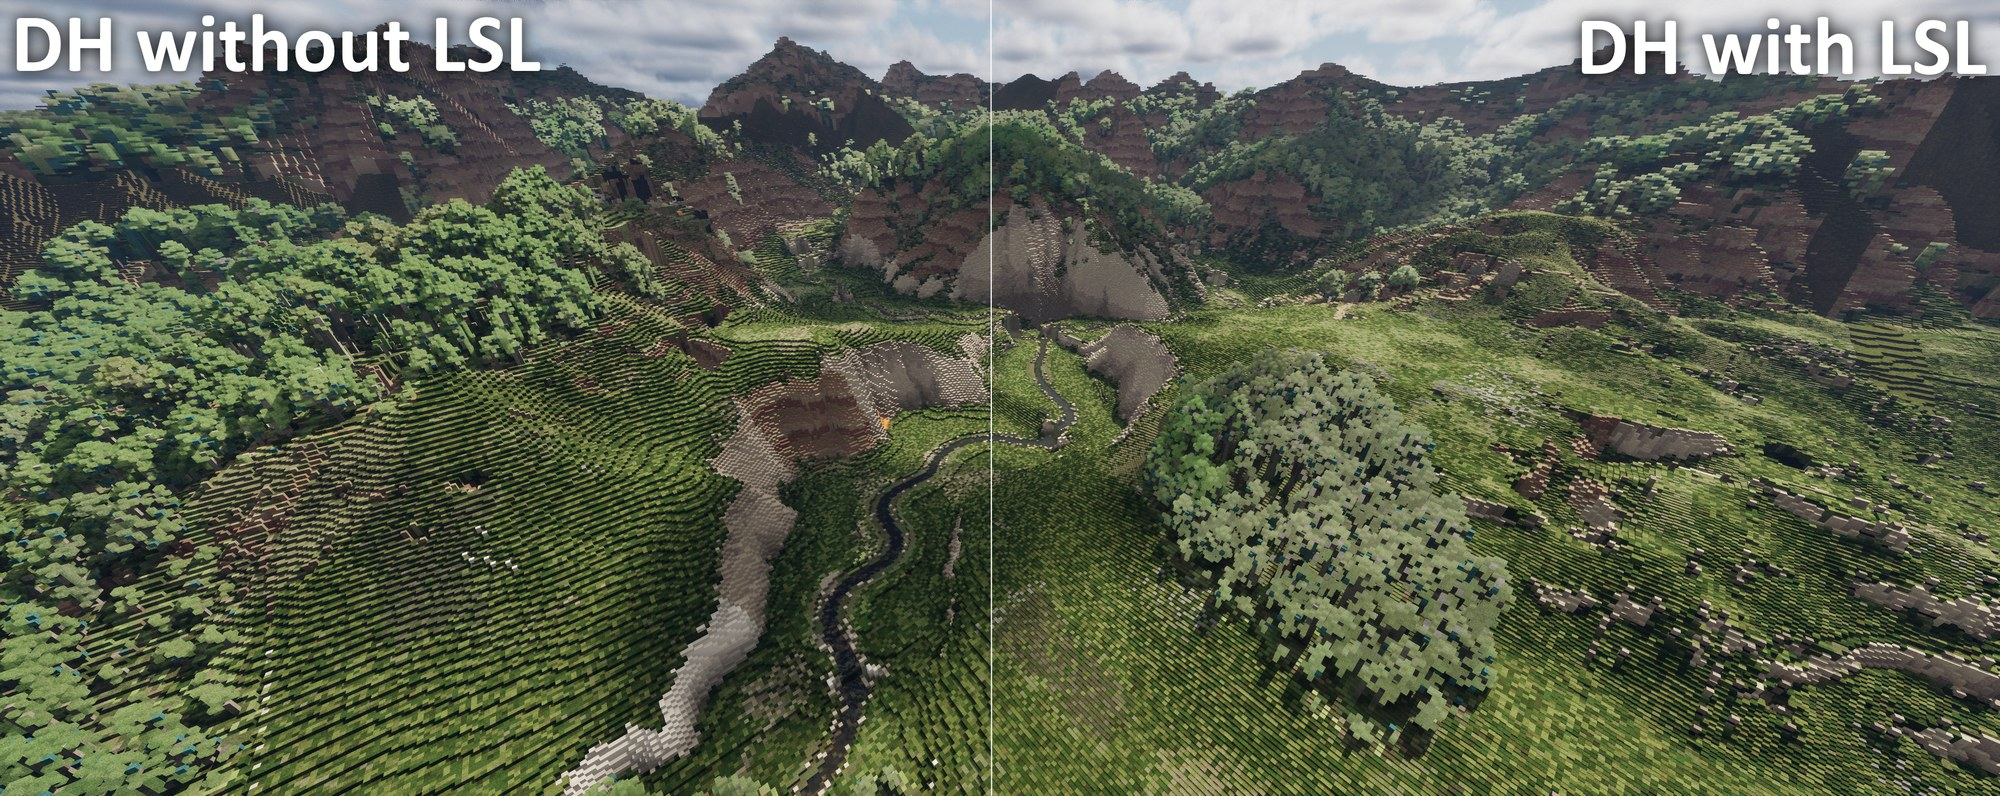
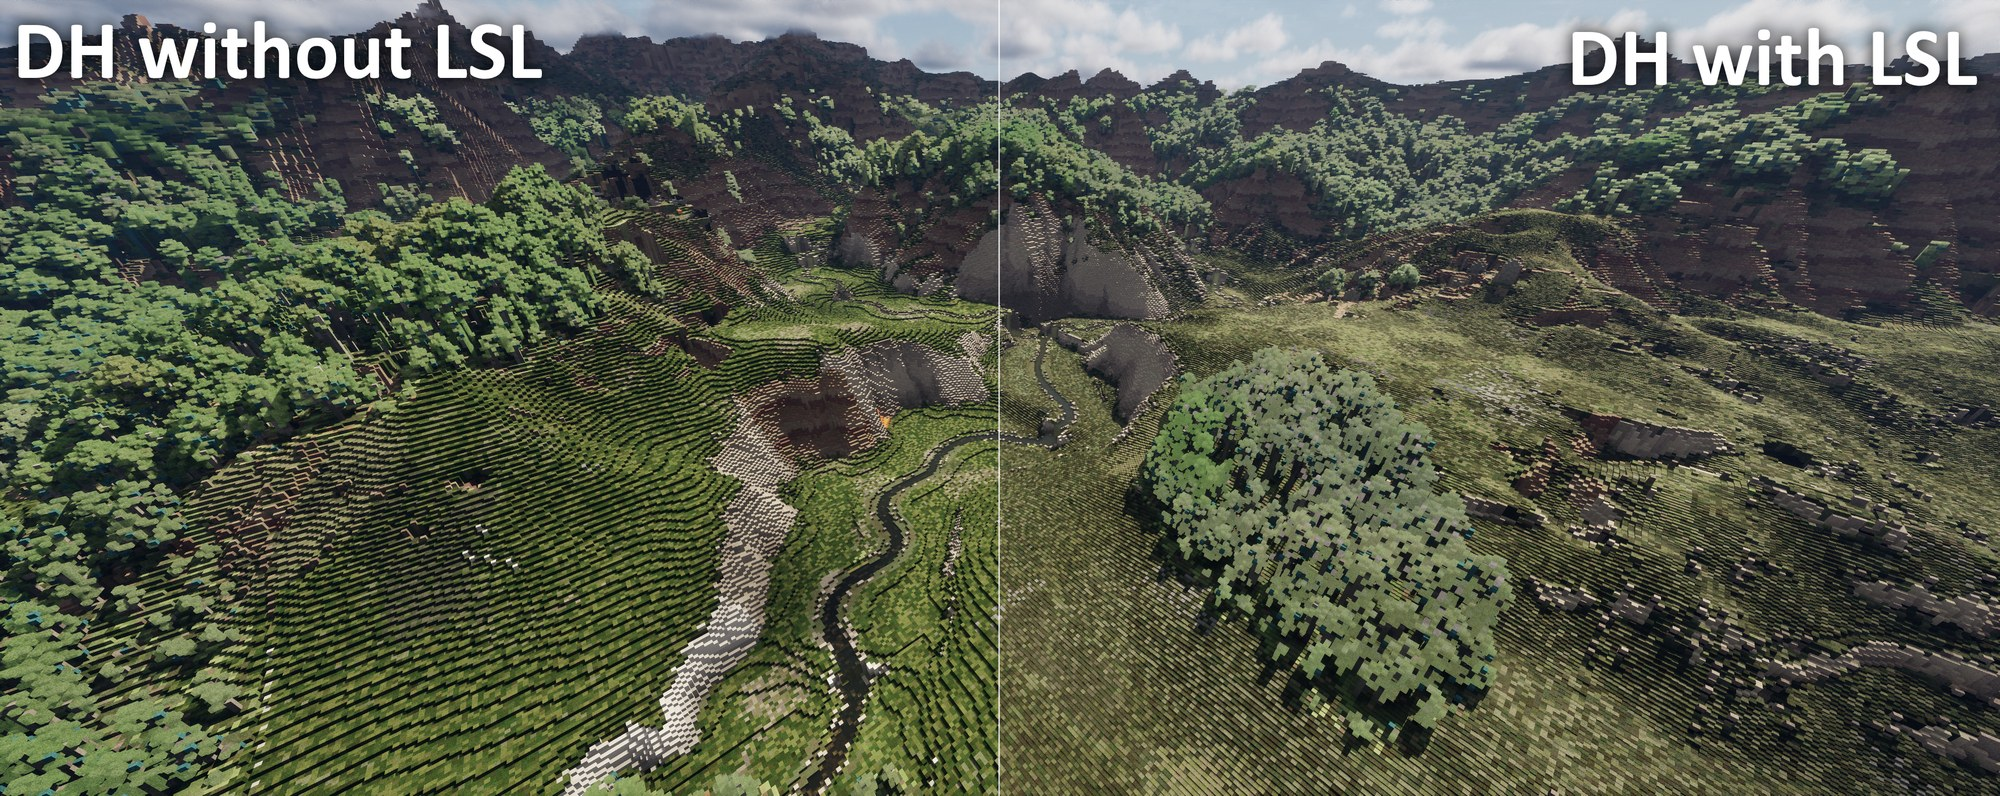
DH: neutral tinted textures for plant colours (0.1.39-poc)
Grass and plants in Distant Horizons LODs were much greener than up
close, about as green as Voxy before LSL. DH colours a tinted block as
the average of its texture times the biome tint. Tinted textures are
meant to be grey, with the tint giving the colour. Conquest Reforged's
plant textures are coloured fallbacks for the near-grey Continuity
tiles it draws up close, so DH coloured them twice. Voxy had the same
problem before voxy_ctm.

New option dh_neutral_tints (default on): whenever DH has tinted a
block, its texture's average is turned grey, brightness kept, and DH's
tint is applied again. Small fescue's base #61713B becomes #6B6B6B,
close to CR's tile #646759. Textures that are already grey (vanilla
grass and leaves) don't change. DH paints a plant's colour onto the
block under it through the same colour lookup, so meadow tops follow.

This goes through DH's public API only (DhApiBlockColorOverrideEvent,
base and tint colours since API 7.1), so it works on every MC version,
with or without exact layers, and needs no Continuity code. A DH
without those getters skips it with a log line.

- DistantHorizonsCompat: the block-wrapper event now also runs without
  exact heights. It sets the partial-layer opacity (exact mode) and
  opts non-air blocks into colour overrides (dh_neutral_tints). New
  colour event handler.
- DhColors (new): luminance grey in linear light (as DH averages
  textures) and DH's channel-wise tint multiply.
[…]

diff --git a/src/main/java/io/arona74/lsl/dh/DistantHorizonsCompat.java b/src/main/java/io/arona74/lsl/dh/DistantHorizonsCompat.java
@@ -4,6 +4,7 @@ import com.seibel.distanthorizons.api.DhApi;
 import com.seibel.distanthorizons.api.interfaces.block.IDhApiBlockStateWrapper;
 import com.seibel.distanthorizons.api.interfaces.world.IDhApiLevelWrapper;
 import com.seibel.distanthorizons.api.methods.events.DhApiEventRegister;
+import com.seibel.distanthorizons.api.methods.events.abstractEvents.DhApiBlockColorOverrideEvent;
 import com.seibel.distanthorizons.api.methods.events.abstractEvents.DhApiBlockStateWrapperCreatedEvent;
 import com.seibel.distanthorizons.api.methods.events.abstractEvents.DhApiChunkProcessingEvent;
 import com.seibel.distanthorizons.api.methods.events.sharedParameterObjects.DhApiEventParam;
@@ -47,19 +48,22 @@ public final class DistantHorizonsCompat {
     private static final Map<IDhApiLevelWrapper, Map<BlockState, IDhApiBlockStateWrapper>> WRAPPERS = new ConcurrentHashMap<>();
 
     public static void register() {
-        if (DhExactFlags.active) {
+        boolean exact = DhExactFlags.active;
+        boolean tints = registerNeutralTints();
+        if (exact || tints) {
             report(DhApiEventRegister.on(DhApiBlockStateWrapperCreatedEvent.class, new DhApiBlockStateWrapperCreatedEvent() {
                 @Override
                 public void blockStateWrapperCreated(DhApiEventParam<EventParam> event) {
                     DhStats.WRAPPERS.count();
-                    if (event.value.getBlockStateWrapper().getWrappedMcObject() instanceof BlockState state
-                            && DhLayers.partialEighths(state) > 0 && !DhLayers.isWaterlogged(state)) {
+                    if (!(event.value.getBlockStateWrapper().getWrappedMcObject() instanceof BlockState state)) return;
+                    if (exact && DhLayers.partialEighths(state) > 0 && !DhLayers.isWaterlogged(state)) {
                         event.value.setOpacity(PARTIAL_LAYER_OPACITY);
                     }
+                    if (tints && !state.isAir()) event.value.setAllowApiColorOverride(true);
                 }
-            }), "exact layer heights");
-            return;
+            }), exact ? "exact layer heights" : "block wrappers");
         }
+        if (exact) return;
         report(DhApiEventRegister.on(DhApiChunkProcessingEvent.class, new DhApiChunkProcessingEvent() {
             @Override
             public void blockOrBiomeChangedDuringChunkProcessing(DhApiEventParam<EventParam> event) {
@@ -68,6 +72,48 @@ public final class DistantHorizonsCompat {
         }), "layer rounding");
         // The stand-ins depend on dh_layer_rounding_threshold, which the config screen can change.
         LslConfig.onChange(STAND_IN::clear);
+    }
+
+    /**
+     * dh_neutral_tints: DH colours a tinted block as (average of its texture) x tint. A tinted
+     * texture is meant to be grey, the tint giving the colour; Conquest Reforged's plant textures
+     * are coloured fallbacks for the near-grey connected textures it really draws, so DH coloured
+     * them twice and distant meadows came out far greener than up close. Here the texture's average
+     * is turned grey, brightness kept, before the tint is applied again. Blocks DH could not tint,
+     * and grey textures (vanilla grass and leaves), come out as they were.
+     *
+     * @return whether the colour event is registered (DH API 7.1+, option on)
+     */
+    private static boolean registerNeutralTints() {
+        if (!LslConfig.dhNeutralTints) return false;
+        try {
+            DhApiBlockColorOverrideEvent.EventParam.class.getMethod("getTintColorAsInt");
+            DhApiBlockColorOverrideEvent.EventParam.class.getMethod("getBaseColorAsInt");
+        } catch (NoSuchMethodException | LinkageError e) {
+            Lsl.LOGGER.info("[LSL/DH] this Distant Horizons cannot override block colours: dh_neutral_tints skipped");
+            return false;
+        }
+        try {
+            DhApiResult<Void> result = DhApiEventRegister.on(DhApiBlockColorOverrideEvent.class, new DhApiBlockColorOverrideEvent() {
+                @Override
+                public void onBlockColorOverridden(DhApiEventParam<EventParam> event) {
+                    EventParam colour = event.value;
+                    int tint = colour.getTintColorAsInt();
+                    if (tint == -1) return; // not tinted
+                    int base = colour.getBaseColorAsInt();
+                    int grey = DhColors.grey(base);
+                    if (grey == base) return;
+                    int tinted = DhColors.multiply(grey, tint);
+                    colour.setColor(colour.getAlpha(), tinted >> 16 & 0xFF, tinted >> 8 & 0xFF, tinted & 0xFF);
+                }
+            });
+            report(result, "neutral tinted textures");
+            return result.success;
+        } catch (LinkageError e) {
+            // A DH whose API predates the base and tint colours (7.1).
+            Lsl.LOGGER.info("[LSL/DH] this Distant Horizons cannot override block colours: dh_neutral_tints skipped");
+            return false;
+        }
     }
 
     private static void report(DhApiResult<Void> result, String what) {

diff --git a/src/main/java/io/arona74/lsl/dh/DhColors.java b/src/main/java/io/arona74/lsl/dh/DhColors.java
@@ -1,0 +1,39 @@
+package io.arona74.lsl.dh;
+
+/**
+ * Colour arithmetic for dh_neutral_tints, on ARGB ints. Greys are taken the way DH averages
+ * textures: in linear light, back to sRGB.
+ */
+public final class DhColors {
+    private DhColors() {}
+
+    private static final float[] TO_LINEAR = new float[256];
+
+    static {
+        for (int i = 0; i < 256; i++) {
+            double c = i / 255.0;
+            TO_LINEAR[i] = (float) (c <= 0.04045 ? c / 12.92 : Math.pow((c + 0.055) / 1.055, 2.4));
+        }
+    }
+
+    /** The same colour as a grey of equal brightness (relative luminance), alpha kept. */
+    public static int grey(int argb) {
+        float y = 0.2126f * TO_LINEAR[argb >> 16 & 0xFF] + 0.7152f * TO_LINEAR[argb >> 8 & 0xFF]
+            + 0.0722f * TO_LINEAR[argb & 0xFF];
+        int g = toSrgb(y);
+        return argb & 0xFF000000 | g << 16 | g << 8 | g;
+    }
+
+    /** Channel-wise product of a colour and a tint, as DH tints (alpha from {@code argb}). */
+    public static int multiply(int argb, int tint) {
+        int r = (argb >> 16 & 0xFF) * (tint >> 16 & 0xFF) / 255;
+        int g = (argb >> 8 & 0xFF) * (tint >> 8 & 0xFF) / 255;
+        int b = (argb & 0xFF) * (tint & 0xFF) / 255;
+        return argb & 0xFF000000 | r << 16 | g << 8 | b;
+    }
+
+    private static int toSrgb(float linear) {
+        double c = linear <= 0.0031308 ? linear * 12.92 : 1.055 * Math.pow(linear, 1 / 2.4) - 0.055;
+        return Math.max(0, Math.min(255, (int) Math.round(c * 255)));
+    }
+}

diff --git a/src/main/java/io/arona74/lsl/LslConfig.java b/src/main/java/io/arona74/lsl/LslConfig.java
@@ -65,6 +65,7 @@ public final class LslConfig {
     public static boolean dhExactLayers;
     public static boolean dhExactLayersColorBits;
     public static boolean dhLayerSides;
+    public static boolean dhNeutralTints;
     public static boolean dhLayerRounding;
     public static int dhLayerRoundingThreshold;
     public static boolean voxyLayerMip;
@@ -121,6 +122,12 @@ public final class LslConfig {
         add(integer("dh_layer_rounding_threshold", 4, 1, 8, () -> dhLayerRoundingThreshold, v -> dhLayerRoundingThreshold = v)
                 .in(ConfigTab.DISTANT_HORIZONS, "rounding").requires(O_DH_LAYER_ROUNDING).mods(DH)
                 .side(Side.BOTH).apply(Apply.DH_LODS));
+    }
+
+    // --- Distant Horizons: colours ---
+    static {
+        add(bool("dh_neutral_tints", true, () -> dhNeutralTints, v -> dhNeutralTints = v)
+                .in(ConfigTab.DISTANT_HORIZONS, "dh_colours").mods(DH).side(Side.CLIENT).apply(Apply.RESTART));
     }
 
     // --- Voxy ---

diff --git a/README.md b/README.md
@@ -21,7 +21,7 @@ Conquest Reforged):
 
 *A Conquest Reforged valley in Distant Horizons' LODs. Without LSL (left), every layer is a full
 block, so the meadows climb in sharp whole-block steps. With LSL (right), the layers sit at their real
-height and the slopes are smooth.*
+height, the slopes are smooth, and the grass keeps Conquest's colours.*
 
 ![A Conquest Reforged valley in Voxy's LODs, without LSL (left) and with LSL (right)](images/voxy_conquest.jpg)
 
@@ -61,6 +61,12 @@ stands a block too high wherever a layer lies.
 - **Rounding** (`dh_layer_rounding`, any recent DH, public API only): a layer of
   `dh_layer_rounding_threshold` eighths or more shows as its full block, a thinner one as nothing
   (water when waterlogged).
+- **Colours** (`dh_neutral_tints`, DH API 7.1+, public API only): DH colours a tinted block as its
+  texture's average times the biome tint. Conquest Reforged's plant textures are coloured fallbacks
+  for the near-grey connected textures it draws up close, so DH coloured them twice and distant
+  meadows came out far greener than up close (as Voxy's did before `voxy_ctm`). Through DH's
+  `DhApiBlockColorOverrideEvent`, the texture's average is turned grey (same brightness) before
+  the tint. Grey textures, vanilla's included, are unchanged.
 
 Switching `dh_exact_layers` or `dh_layer_rounding` changes what DH saves, so existing LODs keep their
 old look until DH's LOD data is cleared (or in a new world). `dh_exact_layers_color_bits` doesn't.
@@ -222,6 +228,7 @@ those options are read at bake time. "Restart" options decide which mixins or sh
 | `dh_exact_layers_color_bits` (advanced) | `true` | restart |
 | `dh_layer_rounding` | `true` | new DH LODs |
 | `dh_layer_rounding_threshold` | `4` (1-8) | new DH LODs |
+| `dh_neutral_tints` | `true` | restart |
 | `voxy_layer_mip` | `true` | restart; new Voxy LODs |
 | `voxy_shape_culling` | `true` | restart |
 | `voxy_hide_ext_blades` | `true` | rejoin |
